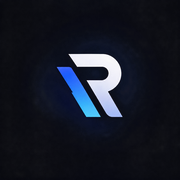
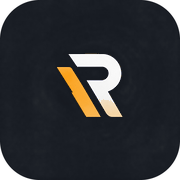
update:updat the color theam and entire website

diff --git a/src/App.tsx b/src/App.tsx
@@ -64,16 +64,17 @@ function Nav() {
           aria-label="Ranjit Das — back to top"
         >
           <img
-            src="/logo-64.png"
+            src="/favicon.svg"
             alt=""
-            width={28}
-            height={28}
-            className="h-7 w-7 border border-line transition-colors group-hover:border-line-strong"
+            width={32}
+            height={32}
+            draggable={false}
+            className="h-8 w-8 select-none transition-transform duration-200 ease-out group-hover:-translate-y-0.5"
           />
-          <span>ranjit.das</span>
+          <span className="transition-colors group-hover:text-accent">ranjit.das</span>
         </a>
 
-        <nav aria-label="Primary" className="hidden items-center gap-1 md:flex">
+        <nav aria-label="Primary" className="hidden items-center gap-1 lg:flex">
           {NAV.map((item) => {
             const isActive = active === item.id;
             return (
@@ -100,7 +101,7 @@ function Nav() {
             aria-expanded={open}
             aria-controls="mobile-menu"
             aria-label={open ? "Close menu" : "Open menu"}
-            className="flex h-9 w-9 items-center justify-center border border-line font-mono text-xs text-ink md:hidden"
+            className="flex h-10 w-10 items-center justify-center border border-line font-mono text-xs text-ink lg:hidden"
           >
             {open ? "esc" : "≡"}
           </button>
@@ -109,7 +110,9 @@ function Nav() {
 
       <div
         id="mobile-menu"
-        className={`fixed inset-0 top-16 z-30 flex flex-col bg-canvas transition-opacity duration-200 md:hidden ${
+        inert={!open}
+        aria-hidden={!open}
+        className={`fixed inset-0 top-16 z-30 flex flex-col bg-canvas transition-opacity duration-200 lg:hidden ${
           open ? "opacity-100" : "pointer-events-none opacity-0"
         }`}
       >
@@ -145,21 +148,21 @@ function KRow({ label, children }: { label: string; children: ReactNode }) {
 function Hero() {
   return (
     <section id="top" className="pt-16">
-      <div className="mx-auto grid max-w-6xl gap-12 px-6 py-20 md:grid-cols-12 md:py-28">
+      <div className="mx-auto grid max-w-6xl items-start gap-10 px-6 py-14 md:grid-cols-12 md:gap-12 md:py-20">
         <div className="md:col-span-7">
           <FadeIn>
             <p className="font-mono text-xs text-muted">Software Engineer · Pune, India</p>
-            <h1 className="mt-5 text-4xl font-semibold leading-[1.08] tracking-tight text-ink sm:text-5xl md:text-6xl">
+            <h1 className="mt-4 text-4xl font-semibold leading-[1.08] tracking-tight text-ink sm:text-5xl md:text-6xl">
               I build <span className="text-accent">backend systems</span> and real-world products.
             </h1>
-            <p className="mt-6 max-w-xl text-base leading-relaxed text-body sm:text-lg">
+            <p className="mt-5 max-w-xl text-base leading-relaxed text-body sm:text-lg">
               Software engineer focused on backend engineering, distributed workflows, and production
               infrastructure — with the full-stack range to ship the product on top.
             </p>
           </FadeIn>
 
           <FadeIn delay={0.08}>
-            <div className="mt-9 flex flex-wrap items-center gap-3">
+            <div className="mt-8 flex flex-wrap items-center gap-3">
               <a
                 href="#work"
                 className="group inline-flex items-center gap-2 bg-accent px-5 py-3 font-mono text-sm font-medium text-canvas transition-colors hover:bg-accent-soft"
@@ -198,12 +201,15 @@ function Hero() {
                 </span>
               </div>
               <dl className="divide-y divide-line px-5 font-mono text-[13px]">
-                <KRow label="role">software engineer, backend</KRow>
-                <KRow label="focus">distributed systems & infra</KRow>
+                <KRow label="role">software engineer</KRow>
+                <KRow label="focus">backend · distributed systems</KRow>
                 <KRow label="currently">DeepEcom — backend & infra</KRow>
                 <KRow label="location">Pune, India · IST</KRow>
                 <KRow label="status">open to full-time roles</KRow>
               </dl>
+              <div className="border-t border-line px-5 py-3.5 font-mono text-[11px] text-muted">
+                kubernetes · postgres · typescript
+              </div>
             </div>
           </FadeIn>
         </div>
@@ -216,7 +222,7 @@ function Hero() {
 
 function CaseBlock({ label, children }: { label: string; children: ReactNode }) {
   return (
-    <div className="grid gap-3 sm:grid-cols-[140px_minmax(0,1fr)] sm:gap-6">
+    <div className="grid gap-3 sm:grid-cols-[168px_minmax(0,1fr)] sm:gap-6">
       <h4 className="font-mono text-[11px] uppercase tracking-wider text-accent sm:pt-0.5">{label}</h4>
       <div className="text-sm leading-relaxed text-body">{children}</div>
     </div>
@@ -265,7 +271,12 @@ function ProjectCase({ project }: { project: Project }) {
       <div className="space-y-8">
         <CaseBlock label="Problem">{project.problem}</CaseBlock>
         <CaseBlock label="Approach">{project.approach}</CaseBlock>
-        <CaseBlock label="Key decisions">
+        <CaseBlock label="Architecture">
+          <span className="font-mono text-[12.5px] leading-relaxed text-muted">
+            {project.architecture}
+          </span>
+        </CaseBlock>
+        <CaseBlock label="Decisions & trade-offs">
           <ul className="space-y-3">
             {project.decisions.map((decision) => (
               <li key={decision} className="flex gap-3">
@@ -275,7 +286,7 @@ function ProjectCase({ project }: { project: Project }) {
             ))}
           </ul>
         </CaseBlock>
-        <CaseBlock label="Learnings">
+        <CaseBlock label="Challenges & learnings">
           <ul className="space-y-3">
             {project.learnings.map((learning) => (
               <li key={learning} className="flex gap-3">
@@ -293,7 +304,7 @@ function ProjectCase({ project }: { project: Project }) {
 function Work() {
   return (
     <section id="work" className="border-t border-line">
-      <div className="mx-auto max-w-6xl px-6 py-20 md:py-28">
+      <div className="mx-auto max-w-6xl px-6 py-16 md:py-24">
         <FadeIn>
           <SectionHeader
             index="01"
@@ -327,7 +338,7 @@ function Work() {
 function Engineering() {
   return (
     <section id="engineering" className="border-t border-line">
-      <div className="mx-auto max-w-6xl px-6 py-20 md:py-28">
+      <div className="mx-auto max-w-6xl px-6 py-16 md:py-24">
         <FadeIn>
           <SectionHeader
             index="02"
@@ -373,7 +384,7 @@ function Engineering() {
 function Experience() {
   return (
     <section id="experience" className="border-t border-line">
-      <div className="mx-auto max-w-6xl px-6 py-20 md:py-28">
+      <div className="mx-auto max-w-6xl px-6 py-16 md:py-24">
         <FadeIn>
           <SectionHeader index="03" title="Experience" />
         </FadeIn>
@@ -411,7 +422,7 @@ function Experience() {
 function Skills() {
   return (
     <section id="skills" className="border-t border-line">
-      <div className="mx-auto max-w-6xl px-6 py-20 md:py-28">
+      <div className="mx-auto max-w-6xl px-6 py-16 md:py-24">
         <FadeIn>
           <SectionHeader
             index="04"
@@ -446,7 +457,7 @@ function Skills() {
 function About() {
   return (
     <section id="about" className="border-t border-line">
-      <div className="mx-auto max-w-6xl px-6 py-20 md:py-28">
+      <div className="mx-auto max-w-6xl px-6 py-16 md:py-24">
         <FadeIn>
           <SectionHeader index="05" title="About" />
         </FadeIn>
@@ -499,7 +510,7 @@ function About() {
 function Contact() {
   return (
     <section id="contact" className="border-t border-line">
-      <div className="mx-auto max-w-6xl px-6 py-20 md:py-28">
+      <div className="mx-auto max-w-6xl px-6 py-16 md:py-24">
         <FadeIn>
           <SectionHeader
             index="06"
@@ -540,13 +551,13 @@ export default function App() {
   return (
     <div className="relative min-h-screen bg-canvas">
       <div className="grain pointer-events-none fixed inset-0 z-50" aria-hidden="true" />
-      <a href="#work" className="skip-link">
+      <a href="#main" className="skip-link">
         Skip to content
       </a>
 
       <Nav />
 
-      <main>
+      <main id="main">
         <Hero />
         <Work />
         <Engineering />

diff --git a/src/data.ts b/src/data.ts
@@ -16,6 +16,7 @@ export interface Project {
   status: string;
   problem: string;
   approach: string;
+  architecture: string;
   decisions: string[];
   learnings: string[];
   stack: string[];
@@ -84,6 +85,8 @@ export const PROJECTS: Project[] = [
       "Organizations had no reliable way to confirm that employees actually understood an internal policy. Compliance was checked with manual sign-offs or generic quizzes that could not reason about the content of a specific document.",
     approach:
       "A serverless pipeline ingests a policy PDF, extracts its clauses, and generates multiple-choice assessments from them. Each organization is an isolated tenant. Candidates are onboarded by tokenized link or CSV, submissions are scored automatically, and results stream into a live dashboard.",
+    architecture:
+      "Next.js app → Cloudflare Worker API → hibernatable Durable Object for real-time notifications → PostgreSQL via Prisma. Ingestion, question generation, and scoring run in the Worker.",
     decisions: [
       "Used hibernatable Cloudflare Durable Objects for real-time WebSocket notifications, so always-on connections cost nothing while a tenant is idle.",
       "Modeled Postgres with composite unique constraints so duplicate concurrent submissions are impossible at the database level rather than in application code.",
@@ -118,6 +121,8 @@ export const PROJECTS: Project[] = [
       "Playing chess online is usually silent and impersonal. I wanted a match where you can see and talk to your opponent without standing up a media server.",
     approach:
       "A Bun WebSocket server synchronizes moves and doubles as the WebRTC signaling channel. Once peers negotiate, video flows directly between browsers. The backend is containerized and deployed to AWS EC2 through a GitHub Actions pipeline.",
+    architecture:
+      "React client ⇄ Bun WebSocket server (move sync + WebRTC signaling); media flows peer-to-peer over WebRTC and never through the server. Docker image deployed to EC2 via GitHub Actions.",
     decisions: [
       "Used WebRTC peer connections for media and a single WebSocket channel for move sync and signaling, so no video ever touches the server.",
       "Containerized the server with Docker for a reproducible build and parity between local development and EC2.",

diff --git a/dist/index.html b/dist/index.html
@@ -45,6 +45,30 @@
     <link rel="icon" type="image/png" sizes="32x32" href="/favicon-32.png" />
     <link rel="apple-touch-icon" href="/apple-touch-icon.png" />
 
+    <script type="application/ld+json">
+      {
+        "@context": "https://schema.org",
+        "@type": "Person",
+        "name": "Ranjit Das",
+        "url": "https://ranjitdas.in/",
+        "jobTitle": "Software Engineer",
+        "email": "mailto:ranjitdas2048@gmail.com",
+        "address": { "@type": "PostalAddress", "addressLocality": "Pune", "addressCountry": "IN" },
+        "sameAs": [
+          "https://github.com/ranjit1024",
+          "https://www.linkedin.com/in/ranjit-das-31b866352/",
+          "https://x.com/ranjitd18755665"
+        ],
+        "knowsAbout": [
+          "Backend engineering",
+          "Distributed systems",
+          "PostgreSQL",
+          "Kubernetes",
+          "Cloud infrastructure"
+        ]
+      }
+    </script>
+
     <link rel="preconnect" href="https://fonts.googleapis.com" />
     <link rel="preconnect" href="https://fonts.gstatic.com" crossorigin />
     <link
@@ -65,8 +89,8 @@
         }
       })();
     </script>
-    <script type="module" crossorigin src="/assets/index-Bsz6FokW.js"></script>
-    <link rel="stylesheet" crossorigin href="/assets/index-D4x0O798.css">
+    <script type="module" crossorigin src="/assets/index-CcvOnfAw.js"></script>
+    <link rel="stylesheet" crossorigin href="/assets/index-sk194CF8.css">
   </head>
   <body>
     <div id="root"></div>

diff --git a/index.html b/index.html
@@ -45,6 +45,30 @@
     <link rel="icon" type="image/png" sizes="32x32" href="/favicon-32.png" />
     <link rel="apple-touch-icon" href="/apple-touch-icon.png" />
 
+    <script type="application/ld+json">
+      {
+        "@context": "https://schema.org",
+        "@type": "Person",
+        "name": "Ranjit Das",
+        "url": "https://ranjitdas.in/",
+        "jobTitle": "Software Engineer",
+        "email": "mailto:ranjitdas2048@gmail.com",
+        "address": { "@type": "PostalAddress", "addressLocality": "Pune", "addressCountry": "IN" },
+        "sameAs": [
+          "https://github.com/ranjit1024",
+          "https://www.linkedin.com/in/ranjit-das-31b866352/",
+          "https://x.com/ranjitd18755665"
+        ],
+        "knowsAbout": [
+          "Backend engineering",
+          "Distributed systems",
+          "PostgreSQL",
+          "Kubernetes",
+          "Cloud infrastructure"
+        ]
+      }
+    </script>
+
     <link rel="preconnect" href="https://fonts.googleapis.com" />
     <link rel="preconnect" href="https://fonts.gstatic.com" crossorigin />
     <link

diff --git a/src/index.css b/src/index.css
@@ -13,8 +13,8 @@
   --line-strong: #2b333f;
   --ink: #eef1f5;
   --body-color: #a7aeb9;
-  --muted-color: #727b87;
-  --faint-color: #4b545f;
+  --muted-color: #8a929e;
+  --faint-color: #717b88;
   --accent: #e9a23b;
   --accent-soft: #f2b968;
   --ok: #5aa878;
@@ -29,8 +29,8 @@
   --line-strong: #cfcbc1;
   --ink: #16181c;
   --body-color: #3f444d;
-  --muted-color: #6a7079;
-  --faint-color: #9aa1aa;
+  --muted-color: #565c65;
+  --faint-color: #6a707a;
   --accent: #95590b;
   --accent-soft: #7a4905;
   --ok: #2f7d4f;
@@ -72,7 +72,8 @@
   }
 
   /* Anchored sections clear the fixed header. */
-  section[id] {
+  section[id],
+  main[id] {
     scroll-margin-top: 5.5rem;
   }
 

diff --git a/src/components/ui.tsx b/src/components/ui.tsx
@@ -148,7 +148,7 @@ export function ThemeToggle() {
       onClick={toggle}
       aria-label={`Switch to ${next} theme`}
       title={`Switch to ${next} theme`}
-      className="flex h-9 w-9 items-center justify-center border border-line text-muted transition-colors hover:border-line-strong hover:text-ink"
+      className="flex h-10 w-10 items-center justify-center border border-line text-muted transition-colors hover:border-line-strong hover:text-ink"
     >
       {theme === "dark" ? <SunIcon className="h-4 w-4" /> : <MoonIcon className="h-4 w-4" />}
     </button>
